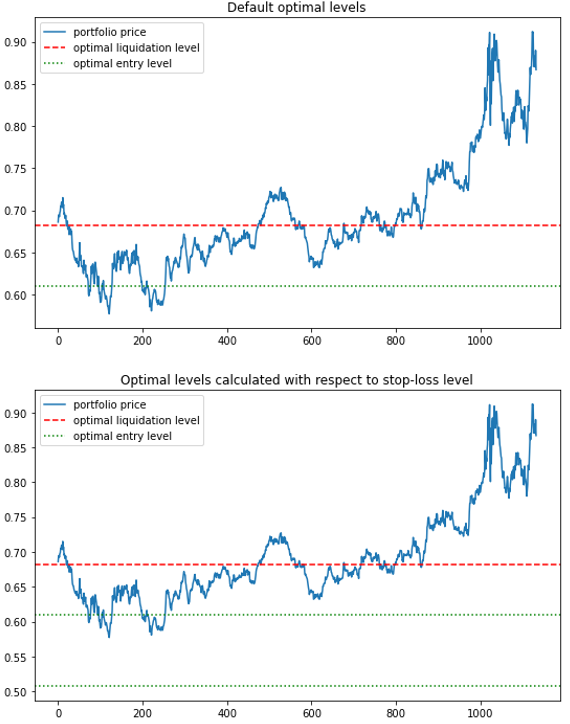
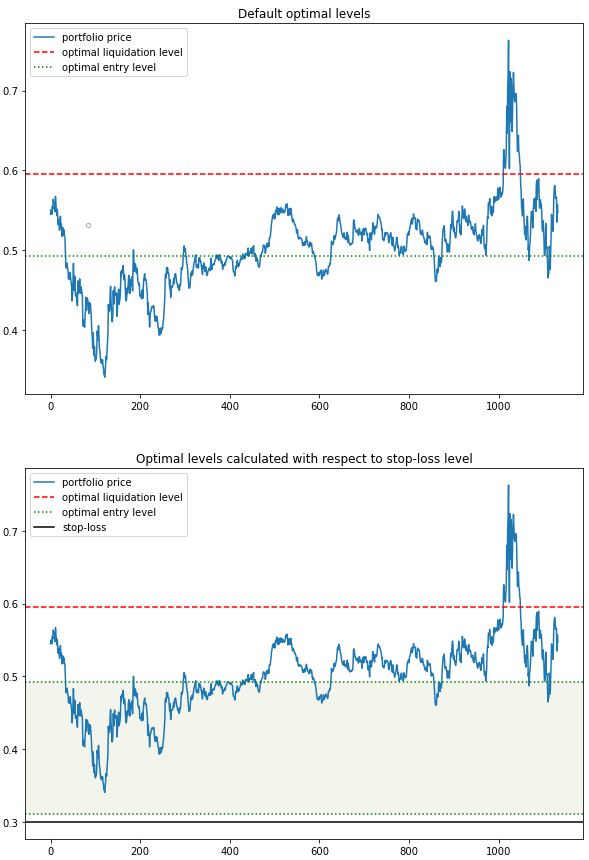
OU-model docs update

diff --git a/docs/source/optimal_mean_reversion/ou_model.rst b/docs/source/optimal_mean_reversion/ou_model.rst
@@ -15,7 +15,7 @@ Trading Under the Ornstein-Uhlenbeck Model
     mean.
 
 Model fitting
-=============
+#############
 
 .. note::
    We are solving the optimal stopping problem for a mean-reverting portfolio that is constructed by holding
@@ -98,7 +98,7 @@ log-likelihood by :math:`\hat{\ell}(\theta^*,\mu^*,\sigma^*)`. Then for every :m
 
 
 Optimal Timing of Trades
-===========================
+########################
 
 Suppose the investor already has a position with a value process :math:`(X_t)_{t>0}` that follows the OU process. When
 the investor closes his position at the time :math:`\tau` he receives the value :math:`(X_{\tau})` and pays a
@@ -106,7 +106,7 @@ constant transaction cost :math:`c_s \in \mathbb{R}` To maximize the expected di
 the optimal stopping problem:
 
 .. math::
-    V(x) = \underset{\tau \in T}{\sup} \mathbb{E}_x{e^{-r \tau} (X_{\tau} - c_s)| X_0 = x}
+    V(x) = \underset{\tau \in T}{\sup} \mathbb{E}_x({e^{-r \tau} (X_{\tau} - c_s)| X_0 = x})
 
 where :math:`T` denotes the set of all possible stopping times and :math:`r > 0` is our subjective constant
 discount rate. :math:`V(x)` represents the expected liquidation value accounted with X.
@@ -115,7 +115,7 @@ Current price plus transaction cost  constitute the cost of entering the trade a
 we can formalize the optimal entry problem:
 
 .. math::
-    J(x) = \underset{\nu \in T}{\sup} \mathbb{E}_x{e^{-\hat{r} \tau} (V(X_{\nu}) - X_{\nu} - c_b)| X_0 = x}
+    J(x) = \underset{\nu \in T}{\sup} \mathbb{E}_x({e^{-\hat{r} \tau} (V(X_{\nu}) - X_{\nu} - c_b)| X_0 = x})
 
 with
 
@@ -162,7 +162,7 @@ Mathematical Analysis and Practical Applications by Tim Leung and Xin Li
 following problems:
 
 Default optimal stopping problem
---------------------------------
+********************************
 
 Theorem 2.6 (p.23):
 
@@ -210,7 +210,7 @@ Where ":math:`\hat{\ }`" represents the use of transaction cost and discount rat
 
 
 Optimal stopping problem with stop-loss
----------------------------------------
+***************************************
 
 
 When we include the stop-loss in our optimal stopping problems the theorems we use to find the solution
@@ -283,13 +283,13 @@ The optimal entry interval :math:`(a_L^*,d_L^*)` is found using the respective e
 
 
 How to use this submodule
-=========================
+#########################
 
 This module gives you the ability to calculate optimal values of entering and liquidating the position for your
 portfolio. The whole process takes only 2 steps.
 
 Step 1: Model fitting
-----------------------
+*********************
 
 In this step we need to use :code:`fit` function to fit OU model to our training data and set the constant
 parameters like transaction costs, discount rates, stop-loss level and data frequency. You have a choice not
@@ -302,7 +302,8 @@ You can also use an np.array of two time series of asset prices, and the optimal
 function itself, or use your own portfolio values as an input data.
 
 Implementation
-++++++++++++++
+==============
+
 .. py:currentmodule:: mlfinlab.optimal_mean_reversion.ou_model.OrnsteinUhlenbeck
 
 .. autofunction:: fit
@@ -337,15 +338,22 @@ by fitting the OU model to our data and from the OU model simulated using our fi
 
     .. autofunction:: ou_model_simulation
 
+Since the half-life of the OU process parameter is widely used in various researches,
+the module has a function for calculating its value.
+
+.. autofunction:: half_life
+
 
 Step 2: Determining the optimal entry and exit values
------------------------------------------------------
+*****************************************************
+
 To get the optimal liquidation or entry level for your data we need to call one of the functions mentioned below.
 They present the solutions to the equations established during the theoretical part.
 To choose whether to account for stop-loss level or not choose the respective set of functions.
 
 Implementation
-++++++++++++++
+==============
+
 :math:`b^*`: - optimal level of liquidation:
 
 .. autofunction:: optimal_liquidation_level
@@ -372,7 +380,7 @@ Implementation
       *  If bought, liquidate the position as soon as portfolio price reaches the optimal liquidation level.
 
 Step 3: (Optional) Plot the optimal levels on your data
--------------------------------------------------------
+*******************************************************
 
 Additionally you have the ability to plot your optimal levels onto your out-of-sample data. Similarly to the
 fit step you have a choice whether to use portfolio prices or an array of asset prices. In the case of
@@ -384,7 +392,8 @@ the latter optimal coefficient found during the fit stage will be used to create
    :figclass: align-center
 
 Implementation
-++++++++++++++
+==============
+
 .. autofunction:: plot_levels
 
 .. tip::
@@ -398,57 +407,122 @@ Implementation
        :figclass: align-center
 
 Example
-=======
+#######
 
-The following examples show how the described above module can be used on real data:
-
+As data we will use downloaded GLD and GDX tickers from Yahoo Finance.
 
 .. code-block::
 
     import numpy as np
     import pandas as pd
-
     import yfinance as yf
-    from mlfinlab.optimal_mean_reversion import OrnsteinUhlenbeck
-
 
     # Import data from Yahoo finance
-    data1 =  yf.download("GLD GDX", start="2015-08-25", end="2016-12-09")
-    data2 =  yf.download("GLD GDX", start="2016-12-10", end="2017-03-09")
+    data1 =  yf.download("GLD GDX", start="2012-03-25", end="2016-01-09")
+    data2 =  yf.download("GLD GDX", start="2016-02-21", end="2020-08-15")
 
-    # Create training dataset as an array of two asset prices
-    data_train = np.array([data1["Adj Close"]])
+    # You can use the pd.DataFrame of two asset prices
+    data_train_dataframe = data1["Adj Close"][["GLD", "GDX"]]
+
+    # And also we can create training dataset as an array of two asset prices
+    data_train = np.array(data1["Adj Close"][["GLD", "GDX"]])
 
     # Create an out-of-sample dataset
-    data_oos = np.array([data2["Adj Close"]])
+    data_oos = data2["Adj Close"][["GLD", "GDX"]]
+
+
+The following examples show how the described above module can be used on real data:
+
+**Example 1**
+
+In this example we are using ``pd.DataFrame`` as an input data for the model. We  train our model
+on the whole provided sample and showcase our results on the separate out-of-sample dataset. We also include the
+stop-loss level in this example.
+
+.. code-block::
+
+    from mlfinlab.optimal_mean_reversion import OrnsteinUhlenbeck
 
     # Create the class object
     example = OrnsteinUhlenbeck()
 
     # Fit the model to the training data and allocate data frequency,
     # transaction costs, discount rates and stop-loss level
-    example.fit(data_train, data_frequency="D", discount_rate=[0.05, 0.05],
-                transaction_cost=[0.02, 0.02], stop_loss=0.5)
 
-    # The parameters can be also allocated in an alternative way
-    example.fit(data_train, data_frequency="D", discount_rate=0.5,
-                transaction_cost=0.2, stop_loss=0.5)
+    # Chosen data type can be pd.DataFrame
+    example.fit(data_train_dataframe, data_frequency="D", discount_rate=[0.05, 0.05],
+                transaction_cost=[0.02, 0.02], stop_loss=0.2)
 
-    # You can also use the pd.DataFrame as an input data
-    example.fit(data_train, data_frequency="D", discount_rate=[0.05, 0.05],
-                transaction_cost=[0.02, 0.02], stop_loss=0.5)
+    # Check the model fit
+    print(example.check_fit())
 
-    # In this case you can also specify the training interval you would like to use
-    example.fit(data_train, data_frequency="D", discount_rate=[0.05, 0.05],
-                start="2015-10-25", end="2016-11-09",
-                transaction_cost=[0.02, 0.02], stop_loss=0.5)
+    # Showcase the data for both variations of the problem on the out of sample data
+    fig = example.plot_levels(data_oos, stop_loss=True)
+    fig.set_figheight(15)
+    fig.set_figwidth(10)
+
+**Example 2**
+
+In this example we are using ``pd.DataFrame`` as an input data for the model. We  train our model
+on the slice of the provided data chosen based on provided time interval and showcase our results with
+``description`` function. We include the stop-loss level in this example and change it manually
+along the way. In the end we chose to retrain our data on a different slice of the provided data chosen
+based on provided time interval.
+
+.. code-block::
+
+    from mlfinlab.optimal_mean_reversion import OrnsteinUhlenbeck
+
+    # Create the class object
+    example = OrnsteinUhlenbeck()
+
+    # Fit the model to the training data and allocate data frequency,
+    # transaction costs, discount rates and stop-loss level
+
+    # We can specify the interval we want to use for training
+    example.fit(data_train_dataframe, data_frequency="D", discount_rate=[0.05, 0.05],
+                start="2012-03-27", end="2013-12-08",
+                transaction_cost=[0.02, 0.02], stop_loss=0.2)
+
+    # Check the model fit
+    print(example.check_fit(),"\n")
 
     # Stop-loss level, transaction costs and discount rates
     # can be changed along the way
-    example.L = 0.5
+    example.L = 0.3
+
+    # Call the description function to see all the model's parameters and optimal levels
+    print("Model description:\n",example.description())
+
+    # Retrain the model
+
+    # By changing the training interval
+    example.fit_to_assets(start="2015-08-25", end="2016-12-09")
+
+
+**Example 3**
+
+In this example we are using ``np.array`` as an input data for the model. We  train our model
+on the whole provided array and showcase our results on separate out-of-sample data. We don't include the
+stop-loss level in this example. In the end we chose to retrain our data on an out-of-sample dataset.
+
+
+.. code-block::
+
+    from mlfinlab.optimal_mean_reversion import OrnsteinUhlenbeck
+
+    # Create the class object
+    example = OrnsteinUhlenbeck()
+
+    # Fit the model to the training data and allocate data frequency,
+    # transaction costs, discount rates and stop-loss level
+
+    # You can input the np.array as data
+    example.fit(data_train, data_frequency="D", discount_rate=[0.05, 0.05],
+                transaction_cost=[0.02, 0.02], stop_loss=0.2)
 
     # Check the model fit
-    example.check_fit()
+    print(example.check_fit(),"\n")
 
     # Calculate the optimal liquidation level
     b = example.optimal_entry_level()
@@ -462,16 +536,76 @@ The following examples show how the described above module can be used on real d
     # Calculate the optimal entry interval accounting for stop-loss
     d_L = example.optimal_entry_interval_stop_loss()
 
-    # Showcase the data for both variations of the problem on the out of sample data
-    example.plot_levels(data_oos, stop_loss=True)
-
     # Call the description function to see all the model's parameters and optimal levels
-    example.description()
+    print("Model description:\n",example.description())
+
+    # Showcase the data for both variations of the problem on the out of sample data
+    fig = example.plot_levels(data_oos)
+    fig.set_figheight(15)
+    fig.set_figwidth(10)
 
     # Retrain the model
-    # By changing the training interval
-    example.fit_to_assets(start="2015-08-25", end="2016-12-09")
+
     # By changing the input data
     example.fit_to_assets(data=data_oos)
-    # By using the simulated OU process
-    example.fit_to_portfolio(ou_model_simulation(400))
+
+    # Check the model fit
+    print(example.check_fit(),"\n")
+
+
+**Example 4**
+
+In this example we are using ``np.array`` as an input data for the model. We  train our model
+on the simulated OU process based on given parameters and showcase our results on the
+simulated OU process based on the parameters of the fitted model. Stop-loss level in this example
+isn't included. We also calculate an additional OU-model parameter - half-life.
+
+.. code-block::
+
+    from mlfinlab.optimal_mean_reversion import OrnsteinUhlenbeck
+
+    # Create the class object
+    example = OrnsteinUhlenbeck()
+
+    # Setting the delta as if we are using the daily data
+    delta_t = 1/252
+
+    # Generate the mean-reverting data for the model input based on given parameters
+    ou_given = example.ou_model_simulation(n=400, theta_given=0.7, mu_given=12,
+                                           sigma_given=0.1, delta_t_given=delta_t)
+
+    # Fit the model to the training data and allocate data frequency,
+    # transaction costs, discount rates and stop-loss level
+
+    # The parameters can be allocated in an alternative way
+    example.fit(ou_given, data_frequency="D", discount_rate=0.05,
+                transaction_cost=0.02)
+
+    # Check the model fit
+    print(example.check_fit(), "\n")
+
+    # Call the description function to see all the model's parameters and optimal levels
+    print("Model description:\n",example.description(),"\n")
+
+    # Generate the mean-reverting data for the testing data based on fitted
+    ou_fitted = example.ou_model_simulation(n=400)
+
+    # Showcase the found optimal levels on the generated test data
+    fig = example.plot_levels(ou_fitted)
+    fig.set_figheight(15)
+    fig.set_figwidth(10)
+
+    # We can calculate the half-life of the OU model
+    h = example.half_life()
+
+    print("half-life: ",h)
+
+
+Research Notebook
+#################
+
+The following research notebook can be used to better understand the concepts of trading under the Ornstein-Uhlenbeck Model.
+
+* `Trading Under the Ornstein-Uhlenbeck Model`_
+
+.. _`Trading Under the Ornstein-Uhlenbeck Model`: https://github.com/Hudson-and-Thames-Clients/research/tree/master/Optimal%20Mean%20Reversion/ou_model.ipynb

diff --git a/docs/source/index.rst b/docs/source/index.rst
@@ -282,6 +282,9 @@ This project is licensed under an all rights reserved licence.
     data_generation/introduction
     data_generation/corrgan
     data_generation/vine_methods
+    data_generation/correlated_random_walks
+    data_generation/hcbm
+    data_generation/bootstrap
     data_generation/data_verification
 
 .. toctree::
@@ -319,6 +322,8 @@ This project is licensed under an all rights reserved licence.
 
     networks/introduction
     networks/mst
+    networks/almst
+    networks/pmfg
     networks/visualisations
     networks/dash
 
@@ -330,6 +335,7 @@ This project is licensed under an all rights reserved licence.
 
     implementations/onc
     implementations/feature_clusters
+    implementations/hierarchical_clustering
 
 .. toctree::
     :maxdepth: 2

diff --git a/docs/source/portfolio_optimisation/mean_variance.rst b/docs/source/portfolio_optimisation/mean_variance.rst
@@ -448,6 +448,10 @@ Research Notebooks
 
 The following research notebooks provide a more detailed exploration of the algorithm.
 
+* `Mean-Variance Portfolio Optimization`_
+
+.. _Mean-Variance Portfolio Optimization: https://github.com/Hudson-and-Thames-Clients/research/blob/master/Portfolio%20Optimisation%20Tutorials/Mean%20Variance%20Optimisation%20(MVO)/MVO%20Tutorial%20Notebook.ipynb
+
 * `Chapter 16 Exercise Notebook`_
 
 .. _Chapter 16 Exercise Notebook: https://github.com/Hudson-and-Thames-Clients/research/blob/master/Advances%20in%20Financial%20Machine%20Learning/Machine%20Learning%20Asset%20Allocation/Chapter16.ipynb
